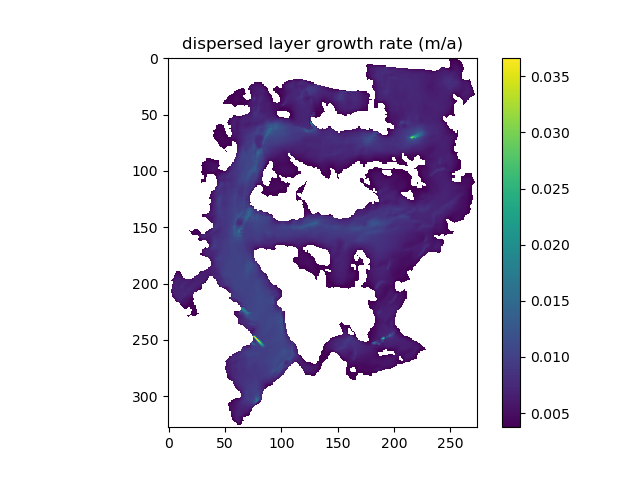
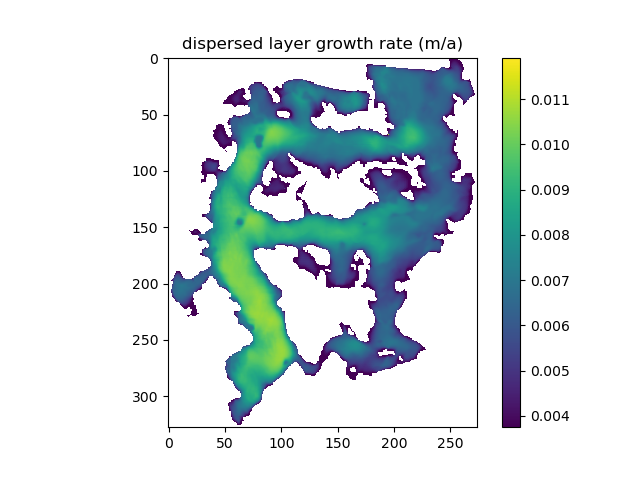
Debug advection algorithm

diff --git a/basis/src/basis.py b/basis/src/basis.py
@@ -429,6 +429,33 @@ class BasalIceStratigrapher:
         if clamp:
             Hf[:] = np.where(Hf > np.percentile(Hf, 99), np.percentile(Hf, 99), Hf)
 
+    def advect_fringe(self, dt: float):
+        """Advect the frozen fringe via basal sliding."""
+        ux = self.grid.at_node['sliding_velocity_x'][:]
+        uy = self.grid.at_node['sliding_velocity_y'][:]
+        Hf = self.grid.at_node['fringe_thickness'][:]
+        k = self.params['numerical_diffusivity']
+
+        ux_links = self.grid.map_value_at_max_node_to_link('surface_elevation', 'sliding_velocity_x')
+        uy_links = self.grid.map_value_at_max_node_to_link('surface_elevation', 'sliding_velocity_y')
+        Hf_links = self.grid.map_value_at_max_node_to_link('surface_elevation', 'fringe_thickness')
+
+        ux_dx = self.grid.calc_diff_at_link(ux) / self.grid.dx
+        uy_dy = self.grid.calc_diff_at_link(uy) / self.grid.dy
+
+        Hf_dx = self.grid.calc_diff_at_link(Hf) / self.grid.dx
+        Hf_dy = self.grid.calc_diff_at_link(Hf) / self.grid.dy
+
+        advect_Hf = self.grid.map_mean_of_links_to_node(
+            Hf_links * (ux_dx + uy_dy) + ux_links * Hf_dx + uy_links * Hf_dy 
+        )
+
+        diffuse_Hf = k * self.grid.calc_flux_div_at_node(Hf_dx + Hf_dy)
+
+        # Hf[:] -= (advect_Hf + diffuse_Hf) * dt
+        Hf[:] -= diffuse_Hf * dt
+        Hf[Hf < 1e-3] = 1e-3
+
     def advect_sediment(self, dt: float):
         """Run one step, only advecting sediment packages via basal sliding."""
         ux = self.grid.at_node['sliding_velocity_x'][:]
@@ -436,6 +463,7 @@ class BasalIceStratigrapher:
         Hf = self.grid.at_node['fringe_thickness'][:]
         Hd = self.grid.at_node['dispersed_layer_thickness'][:]
         Cd = self.grid.at_node['dispersed_concentration'][:]
+        k = self.params['numerical_diffusivity']
         
         ux_links = self.grid.map_value_at_max_node_to_link('surface_elevation', 'sliding_velocity_x'),
         uy_links = self.grid.map_value_at_max_node_to_link('surface_elevation', 'sliding_velocity_y'),
@@ -489,7 +517,7 @@ class BasalIceStratigrapher:
 # Finalize #
 ############
 
-    def create_output_file(self, path_to_file: str):
+    def create_output_file(self, path_to_file: str, n_steps = 1):
         """Write output to a netcdf file."""
         ds = Dataset(path_to_file, 'w', format='NETCDF4')
         
@@ -503,25 +531,35 @@ class BasalIceStratigrapher:
 
         xs[:] = self.grid.node_x
         ys[:] = self.grid.node_y
-        ts[:] = np.arange(0)
+        ts[:] = np.arange(0, n_steps + 1, 1)
 
-        N = ds.createVariable('effective_pressure', 'f4', ('x', 'y',))
-        Ux = ds.createVariable('sliding_velocity_x', 'f4', ('x', 'y',))
-        Uy = ds.createVariable('sliding_velocity_y', 'f4', ('x', 'y',))
-        Mb = ds.createVariable('basal_melt_rate', 'f4', ('x', 'y',))
+        N = ds.createVariable('effective_pressure', 'f4', ('time', 'x', 'y',))
+        Ux = ds.createVariable('sliding_velocity_x', 'f4', ('time', 'x', 'y',))
+        Uy = ds.createVariable('sliding_velocity_y', 'f4', ('time', 'x', 'y',))
+        Mb = ds.createVariable('basal_melt_rate', 'f4', ('time', 'x', 'y',))
 
-        N[:] = np.reshape(self.grid.at_node['effective_pressure'][:], self.grid.shape)
-        Ux[:] = np.reshape(self.grid.at_node['sliding_velocity_x'][:], self.grid.shape)
-        Uy[:] = np.reshape(self.grid.at_node['sliding_velocity_y'][:], self.grid.shape)
-        Mb[:] = np.reshape(self.grid.at_node['basal_melt_rate'][:], self.grid.shape)
+        N[0] = np.reshape(self.grid.at_node['effective_pressure'][:], self.grid.shape)
+        Ux[0] = np.reshape(self.grid.at_node['sliding_velocity_x'][:], self.grid.shape)
+        Uy[0] = np.reshape(self.grid.at_node['sliding_velocity_y'][:], self.grid.shape)
+        Mb[0] = np.reshape(self.grid.at_node['basal_melt_rate'][:], self.grid.shape)
 
         Ht = ds.createVariable('till_thickness', 'f4', ('time', 'x', 'y',))
         Hf = ds.createVariable('fringe_thickness', 'f4', ('time', 'x', 'y',))
         Hd = ds.createVariable('dispersed_layer_thickness', 'f4', ('time', 'x', 'y',))
         dHd_dt = ds.createVariable('dispersed_layer_growth_rate', 'f4', ('time', 'x', 'y',))
-        Cd = ds.createVariable('dispersed_layer_concentration', 'f4', ('time', 'x', 'y',))
+        Cd = ds.createVariable('dispersed_concentration', 'f4', ('time', 'x', 'y',))
 
         ds.close()
+
+    def write_output(self, path_to_file: str, t = 1):
+        """Write out results from one time step to a netcdf file."""
+        ds = Dataset(path_to_file, 'r+', format='NETCDF4')
+        
+        ds.variables['till_thickness'][t] = np.reshape(self.grid.at_node['till_thickness'][:], self.grid.shape)
+        ds.variables['fringe_thickness'][t] = np.reshape(self.grid.at_node['fringe_thickness'][:], self.grid.shape)
+        ds.variables['dispersed_layer_thickness'][t] = np.reshape(self.grid.at_node['dispersed_layer_thickness'][:], self.grid.shape)
+        ds.variables['dispersed_layer_growth_rate'][t] = np.reshape(self.grid.at_node['dispersed_layer_growth_rate'][:], self.grid.shape)
+        ds.variables['dispersed_concentration'][t] = np.reshape(self.grid.at_node['dispersed_concentration'][:], self.grid.shape)
 
     def plot_var(self, 
                  var: str, 

diff --git a/experiments/static-effective-pressure/experiment.py b/experiments/static-effective-pressure/experiment.py
@@ -15,8 +15,6 @@ dy = BIS.grid.dy
 bounds = [50 * dx, 100 * dx, 300 * dy, 350 * dy]
 BIS.identify_terminus(bounds)
 
-pressure_scalars = np.arange(0.99, 0.59, -0.01)
-
 basal_water_pressure = 0.9 * (
     BIS.grid.at_node['ice_thickness'] * BIS.params['ice_density'] * BIS.params['gravity']
 )
@@ -56,8 +54,6 @@ Qf, Qd = BIS.calc_sediment_flux()
 print('Qf = ' + str(Qf * BIS.sec_per_a))
 print('Qd = ' + str(Qd * BIS.sec_per_a))
 
-# BIS.write_output(path_to_file)
-
 BIS.plot_var(
     'fringe_thickness', working_dir + '/outputs/Hf_spinup.png', 
     units_label='m',
@@ -69,12 +65,21 @@ BIS.plot_var(
     units_label='m'
 )
 
-for t in range(20000):
-    dt = 0.001 * BIS.sec_per_a
-    BIS.run_one_step(dt, advect=True)
+nt = 10000
+n_save = 10
+BIS.create_output_file(working_dir + '/outputs/sediment.nc', n_steps = n_save)
 
-    if t % 1000 == 0:
+for t in range(nt):
+    dt = 0.01 * BIS.sec_per_a
+    # BIS.entrain_sediment(dt)
+    BIS.advect_fringe(dt)
+
+    BIS.time_elapsed += dt
+
+    if t % int(nt / n_save) == 0:
         print('Completed step #' + str(t))
+
+        BIS.write_output(working_dir + '/outputs/sediment.nc')
 
 print('Completed simulation: ' + str(np.round(BIS.time_elapsed / BIS.sec_per_a, 2)) + ' years elapsed.')
 
@@ -114,46 +119,9 @@ BIS.plot_var(
     'fringe_growth_rate', working_dir + '/outputs/dHf_dt.png', 
     units_label='m/a',
     scalar=BIS.sec_per_a,
-    imshow_args={'vmin': 0}
+    imshow_args={
+        'vmin': 0, 
+        'vmax': np.percentile(BIS.grid.at_node['fringe_growth_rate'][:], 99)
+    }
 )
-
-var = BIS.grid.map_mean_of_links_to_node(BIS.grid.calc_grad_at_link('dispersed_layer_thickness'))
-field = np.where(
-    BIS.grid.at_node['ice_thickness'][:] > 0.5,
-    var,
-    np.nan
-)
-field = np.reshape(field, [BIS.grid.shape[1], BIS.grid.shape[0]])
-im = plt.imshow(field)
-plt.colorbar(im)
-plt.title('gradient in dispersed thickness (m/m)')
-plt.savefig(working_dir + 'outputs/gradHd.png')
-plt.close('all')
-
-# var = BIS.grid.map_mean_of_links_to_node(BIS.grid.calc_grad_at_link('sliding_velocity_y'))
-# field = np.where(
-#     BIS.grid.at_node['ice_thickness'][:] > 0.5,
-#     var * BIS.sec_per_a,
-#     np.nan
-# )
-# field = np.reshape(field, [BIS.grid.shape[1], BIS.grid.shape[0]])
-# im = plt.imshow(field)
-# plt.colorbar(im)
-# plt.title('sliding velocity y')
-# plt.savefig(working_dir + 'outputs/gradUy.png')
-# plt.close('all')
-
-
-var = BIS.grid.map_mean_of_links_to_node(BIS.grid.calc_grad_at_link('fringe_thickness'))
-field = np.where(
-    BIS.grid.at_node['ice_thickness'][:] > 0.5,
-    var,
-    np.nan
-)
-field = np.reshape(field, [BIS.grid.shape[1], BIS.grid.shape[0]])
-im = plt.imshow(field)
-plt.colorbar(im)
-plt.title('gradient of fringe thickness (m/m)')
-plt.savefig(working_dir + 'outputs/gradHf.png')
-plt.close('all')
 
